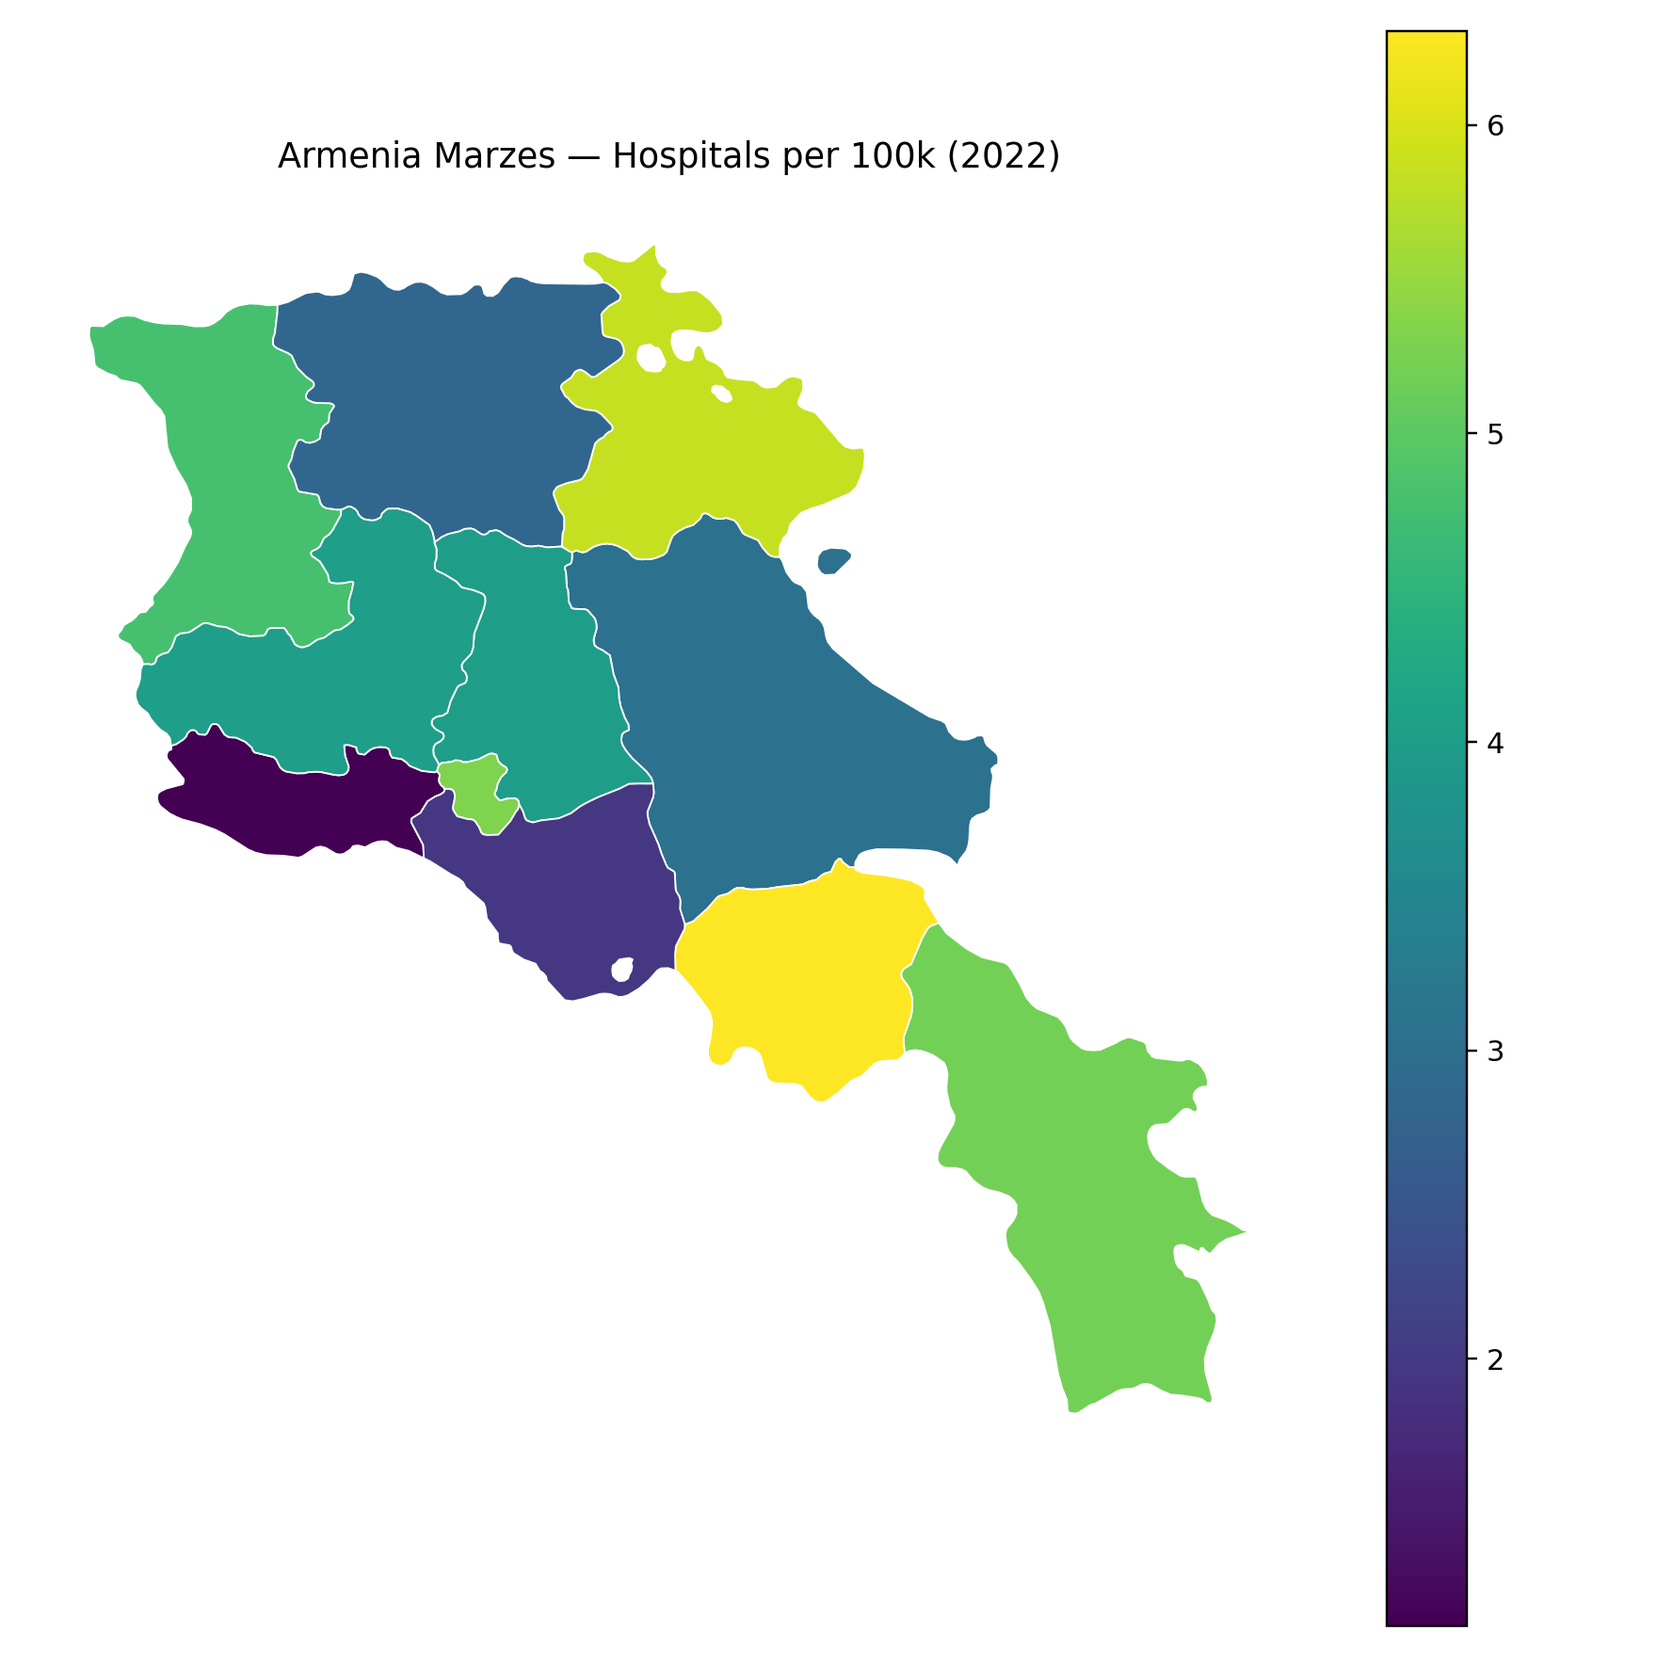
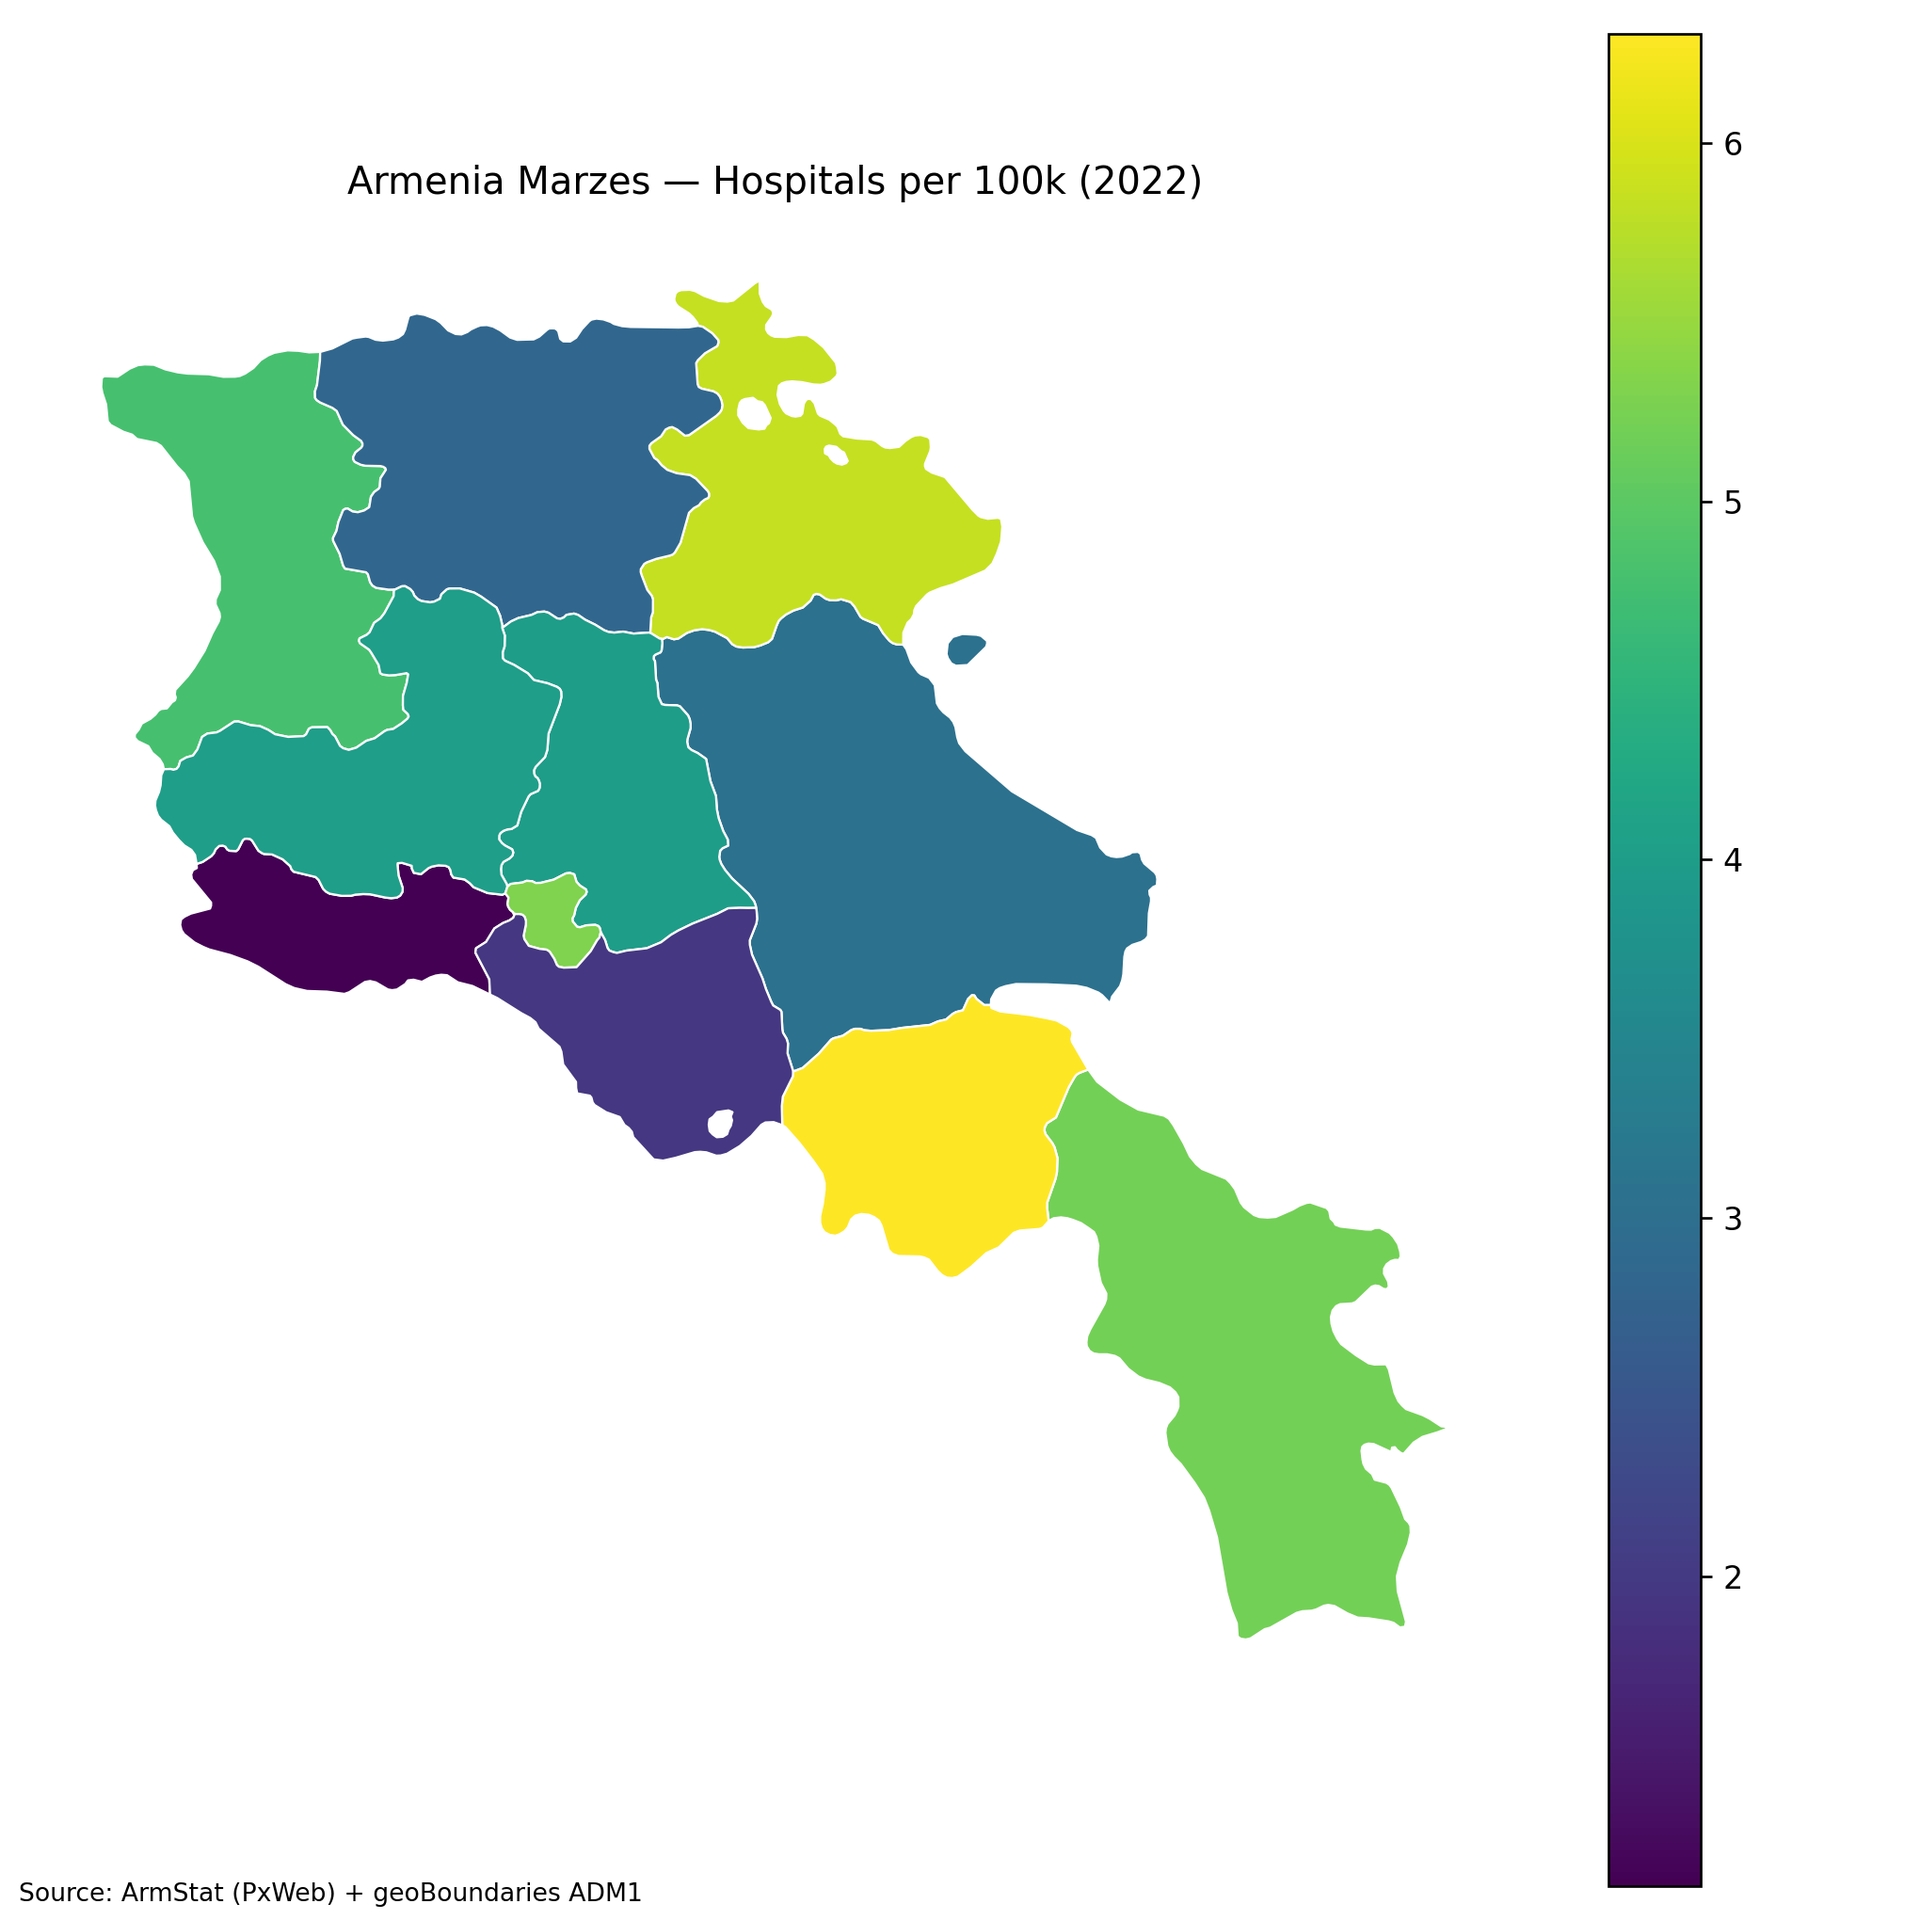
updated maps

diff --git a/scripts/05_make_maps.py b/scripts/05_make_maps.py
@@ -17,39 +17,41 @@ OUT_DIR = PROJECT_ROOT / "data" / "processed" / "maps"
 OUT_DIR.mkdir(parents=True, exist_ok=True)
 
 
+# Canonical spellings across all sources
+CANON = {
+    "Gegarkunik": "Gegharkunik",
+    "Gegharkunik": "Gegharkunik",
+    "Yerevan city": "Yerevan",
+    "City Yerevan": "Yerevan",
+}
+
+
 def norm_marz_name(x: str) -> str:
     s = str(x).strip()
     s = re.sub(r"\s+", " ", s).strip()
+    s = CANON.get(s, s)
+
     s_lower = s.lower()
     s_lower = s_lower.replace(" marz", "")
     s_lower = s_lower.replace(" city", "")
     s_lower = s_lower.replace("city ", "")
     s_lower = s_lower.strip()
-    s_norm = " ".join([w.capitalize() for w in s_lower.split()])
+
+    s_norm = " ".join(w.capitalize() for w in s_lower.split())
     if s_norm.lower() == "yerevan":
         return "Yerevan"
     return s_norm
 
 
 def find_name_column(gdf: gpd.GeoDataFrame) -> str:
-    """
-    Try to locate the admin-1 name field inside GeoJSON properties.
-    We'll try common keys first; if none, print available columns.
-    """
-    candidates = [
-        "shapeName", "shapeNAME", "NAME_1", "name_1", "ADM1_NAME", "adm1_name",
-        "name", "NAME", "shapeGroup", "shapeGroupName"
-    ]
-    for c in candidates:
+    # geoBoundaries uses shapeName for ADM1
+    if "shapeName" in gdf.columns:
+        return "shapeName"
+    # fallback candidates
+    for c in ["NAME_1", "name_1", "ADM1_NAME", "name", "NAME"]:
         if c in gdf.columns:
             return c
-
-    # If not found, fail with helpful info
-    raise RuntimeError(
-        "Could not find a marz-name column in GeoJSON. Available columns:\n"
-        + str(list(gdf.columns))
-        + "\nOpen the GeoJSON and tell me which property contains marz names."
-    )
+    raise RuntimeError(f"Cannot find marz name property in GeoJSON. Columns: {list(gdf.columns)}")
 
 
 def save_choropleth(
@@ -58,19 +60,28 @@ def save_choropleth(
     title: str,
     out_path: Path,
 ) -> None:
-    fig, ax = plt.subplots(figsize=(8, 8))
+    fig, ax = plt.subplots(figsize=(8.5, 8.5))
+
+    # Grey for missing regions
+    missing_kwds = {"color": "#D9D9D9", "label": "Missing"}
+
     gdf.plot(
         column=col,
         ax=ax,
         legend=True,
-        missing_kwds={"color": "lightgrey", "label": "Missing"},
+        missing_kwds=missing_kwds,
         edgecolor="white",
-        linewidth=0.6,
+        linewidth=0.7,
     )
+
     ax.set_title(title)
     ax.set_axis_off()
+
+    # Add small footnote
+    fig.text(0.01, 0.01, "Source: ArmStat (PxWeb) + geoBoundaries ADM1", fontsize=8)
+
     plt.tight_layout()
-    fig.savefig(out_path, dpi=220)
+    fig.savefig(out_path, dpi=240)
     plt.close(fig)
     print(f"[OK] saved map -> {out_path}")
 
@@ -83,16 +94,11 @@ def main() -> None:
     if not GEOJSON_PATH.exists():
         raise FileNotFoundError(f"GeoJSON not found: {GEOJSON_PATH}")
     if not DATA_PATH.exists():
-        raise FileNotFoundError(
-            f"Dataset not found: {DATA_PATH}\n"
-            "Make sure you saved your final dataset as:\n"
-            "data/processed/panel/marz_year_panel_common_with_stress.csv"
-        )
+        raise FileNotFoundError(f"Dataset not found: {DATA_PATH}")
 
-    # Load geospatial boundaries
+    # Load boundaries
     gdf = gpd.read_file(GEOJSON_PATH)
     name_col = find_name_column(gdf)
-
     gdf["marz"] = gdf[name_col].apply(norm_marz_name)
 
     # Load stats
@@ -100,7 +106,7 @@ def main() -> None:
     df["marz"] = df["marz"].apply(norm_marz_name)
     df["year"] = pd.to_numeric(df["year"], errors="coerce").astype("Int64")
 
-    # Indicators we want to map (you can add more later)
+    # Indicators to map (you can add more later)
     indicators = [
         ("poverty_rate", "Poverty rate (%)"),
         ("crime_rate_per_100k", "Crime rate per 100k"),
@@ -109,11 +115,17 @@ def main() -> None:
         ("stress_index", "Stress Index (z-score composite)"),
     ]
 
-    # ---- A) Map a single year (latest in your common panel)
+    # Single-year (latest in the dataset)
     year_latest = int(df["year"].max())
     df_year = df[df["year"] == year_latest].copy()
 
     merged_year = gdf.merge(df_year, on="marz", how="left")
+
+    # Debug: show missing regions for stress_index (should be none now)
+    if "stress_index" in merged_year.columns:
+        missing = merged_year.loc[merged_year["stress_index"].isna(), "marz"].tolist()
+        if missing:
+            print("[WARN] Missing stress_index for these marzes on the map:", missing)
 
     for col, label in indicators:
         if col not in merged_year.columns:
@@ -127,8 +139,9 @@ def main() -> None:
             out_path=out,
         )
 
-    # ---- B) Map average over 2016–2022 (or whatever exists)
-    df_avg = df.groupby("marz", as_index=False)[[c for c, _ in indicators if c in df.columns]].mean(numeric_only=True)
+    # Average across all years in this dataset (2016–2022)
+    cols_present = [c for c, _ in indicators if c in df.columns]
+    df_avg = df.groupby("marz", as_index=False)[cols_present].mean(numeric_only=True)
     merged_avg = gdf.merge(df_avg, on="marz", how="left")
 
     for col, label in indicators:
